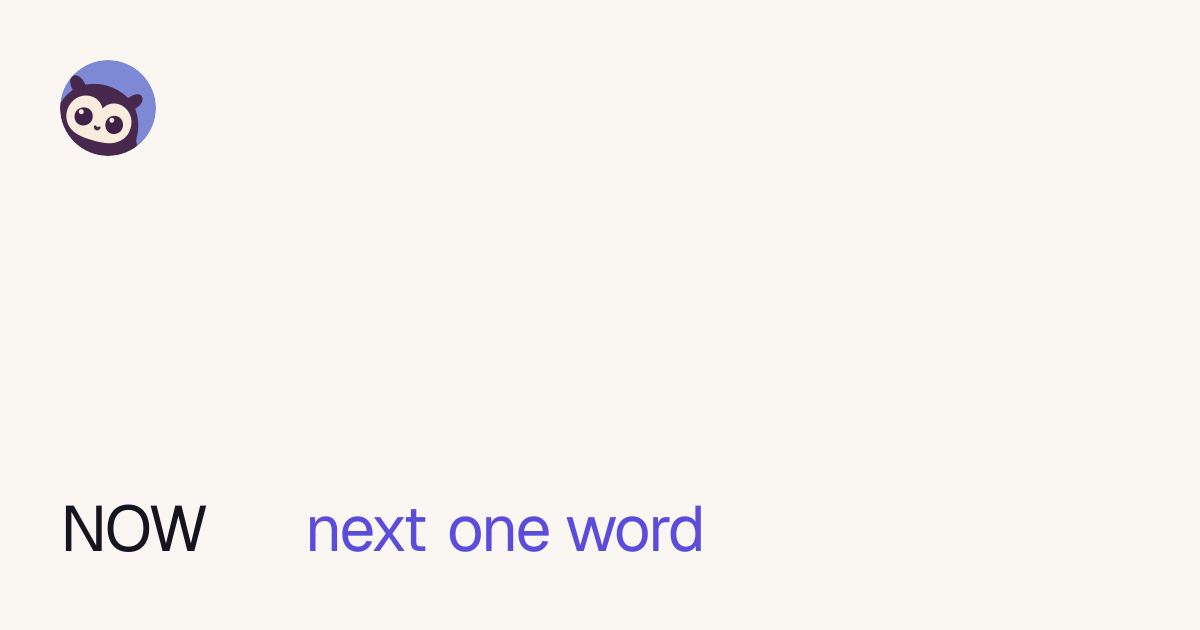
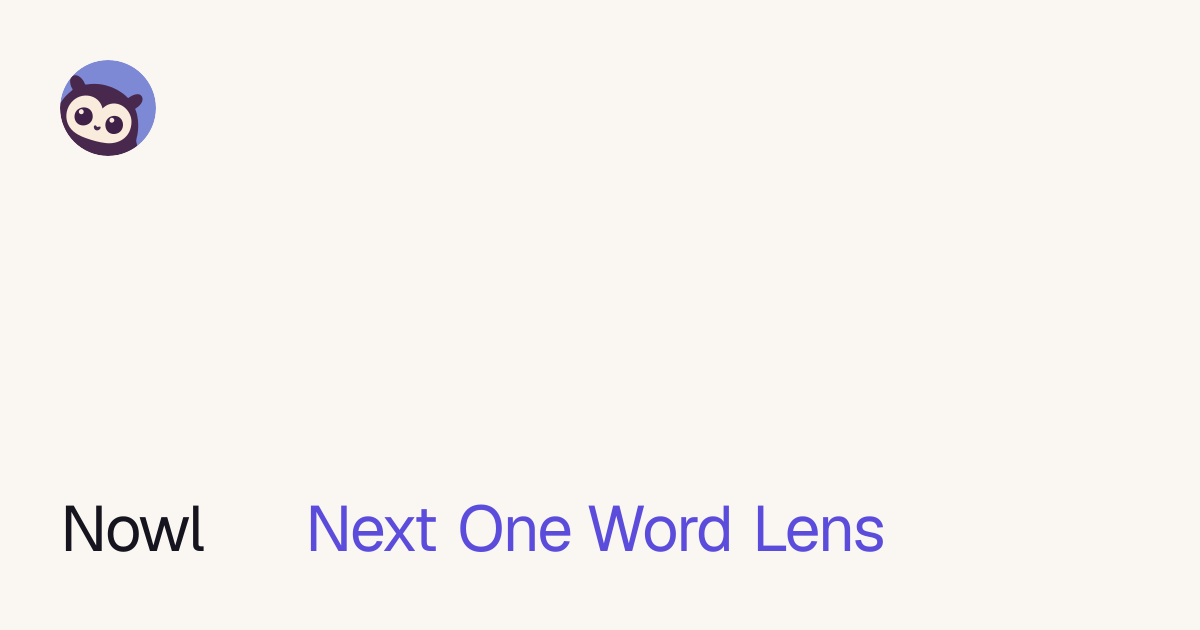
Rename NOW to Nowl — Next One Word Lens

Changed region(s): [[0.2467, 0.7841, 0.74, 0.8746], [0.0925, 0.7841, 0.185, 0.8746]]

diff --git a/src/lib/site.ts b/src/lib/site.ts
@@ -1,18 +1,18 @@
-export const SITE_URL = "https://now.fernaandojr.dev"
-export const SITE_NAME = "NOW"
-export const SITE_TAGLINE = "next one word"
+export const SITE_URL = "https://nowl.fernaandojr.dev"
+export const SITE_NAME = "Nowl"
+export const SITE_TAGLINE = "Next One Word Lens"
 export const AUTHOR_NAME = "FernaandoJr"
 export const AUTHOR_URL = "https://github.com/FernaandoJr"
-export const GITHUB_REPO = "https://github.com/FernaandoJr/now"
+export const GITHUB_REPO = "https://github.com/FernaandoJr/nowl"
 export const THEME_COLOR = "#5b4cdb"
 export const OG_IMAGE_PATH = "/og.png"
 export const OG_IMAGE_URL = `${SITE_URL}${OG_IMAGE_PATH}`
-export const LOGO_PATH = "/now-ip-a1.svg"
+export const LOGO_PATH = "/nowl-ip-a1.svg"
 
 export const OG_IMAGE = {
   url: OG_IMAGE_URL,
   width: 1200,
   height: 630,
-  alt: "NOW — next one word. RSVP reader.",
+  alt: "Nowl — Next One Word Lens. RSVP reader.",
   type: "image/png",
 } as const

diff --git a/src/components/landing-hero.tsx b/src/components/landing-hero.tsx
@@ -24,10 +24,11 @@ export function LandingHero() {
           <div className="flex max-w-xl flex-col items-center gap-5 text-center">
             <OwlMark className="size-24 rounded-2xl" />
             <h1 className="text-3xl font-semibold tracking-tight sm:text-4xl lg:text-5xl">
-              <span className="sr-only">NOW — </span>
+              <span className="sr-only">Nowl — </span>
               <span className="text-primary">N</span>ext{" "}
               <span className="text-primary">O</span>ne{" "}
-              <span className="text-primary">W</span>ord
+              <span className="text-primary">W</span>ord{" "}
+              <span className="text-primary">L</span>ens
             </h1>
             <p className="max-w-prose text-base text-foreground sm:text-lg">
               {t("body")}

diff --git a/src/app/manifest.ts b/src/app/manifest.ts
@@ -4,7 +4,7 @@ import { SITE_NAME, SITE_URL, THEME_COLOR } from "@/lib/site"
 
 export default function manifest(): MetadataRoute.Manifest {
   return {
-    name: `${SITE_NAME} — Next One Word`,
+    name: `${SITE_NAME} — Next One Word Lens`,
     short_name: SITE_NAME,
     description: "RSVP reader. Paste text and read one word at a time.",
     start_url: "/read",
@@ -17,7 +17,7 @@ export default function manifest(): MetadataRoute.Manifest {
     categories: ["education", "productivity", "utilities"],
     icons: [
       {
-        src: "/now-ip-a1.svg",
+        src: "/nowl-ip-a1.svg",
         sizes: "any",
         type: "image/svg+xml",
         purpose: "any",

diff --git a/src/lib/seo.ts b/src/lib/seo.ts
@@ -53,7 +53,7 @@ export function buildHomeJsonLd({
         "@id": websiteId,
         url: SITE_URL,
         name: SITE_NAME,
-        alternateName: ["Next One Word", SITE_TAGLINE],
+        alternateName: [SITE_TAGLINE],
         description,
         inLanguage: ["pt-BR", "en"],
         publisher: { "@id": authorId },
@@ -62,7 +62,7 @@ export function buildHomeJsonLd({
         "@type": "WebApplication",
         "@id": appId,
         name,
-        alternateName: "Next One Word",
+        alternateName: SITE_TAGLINE,
         url: SITE_URL,
         applicationCategory: "EducationalApplication",
         applicationSubCategory: "Speed reading",

diff --git a/src/components/compose-view.tsx b/src/components/compose-view.tsx
@@ -43,7 +43,7 @@ export function ComposeView({
           className="h-8 gap-2 px-2 text-[13px] font-medium tracking-[-0.15px]"
         >
           <OwlMark className="size-6 rounded-md" />
-          NOW
+          Nowl
         </Button>
         <div className="flex items-center gap-1">
           <HistoryDialog onSelect={onSelectHistory} />

diff --git a/src/components/owl-mark.tsx b/src/components/owl-mark.tsx
@@ -7,7 +7,7 @@ type OwlMarkProps = {
 export function OwlMark({ className }: OwlMarkProps) {
   return (
     <img
-      src="/now-ip-a1.svg"
+      src="/nowl-ip-a1.svg"
       alt=""
       width={1024}
       height={1024}

diff --git a/README.md b/README.md
@@ -1,20 +1,20 @@
 <p align="center">
-  <img src="public/now-ip-a1.svg" width="96" height="96" alt="NOW" />
+  <img src="public/nowl-ip-a1.svg" width="96" height="96" alt="Nowl" />
 </p>
 
-<h1 align="center">NOW</h1>
+<h1 align="center">Nowl</h1>
 
-<p align="center"><strong>next one word</strong> — RSVP reader. Paste a text, read one word at a time.</p>
+<p align="center"><strong>Next One Word Lens</strong> — RSVP reader. Paste a text, read one word at a time.</p>
 
 <p align="center">
-  <a href="https://now.fernaandojr.dev">now.fernaandojr.dev</a>
+  <a href="https://nowl.fernaandojr.dev">nowl.fernaandojr.dev</a>
   ·
-  <a href="https://github.com/FernaandoJr/now">GitHub</a>
+  <a href="https://github.com/FernaandoJr/nowl">GitHub</a>
 </p>
 
 ---
 
-NOW flashes a long text as a single word on a fixed point so your eyes stop scanning the page.
+Nowl flashes a long text as a single word on a fixed point so your eyes stop scanning the page.
 
 ## Features
 
